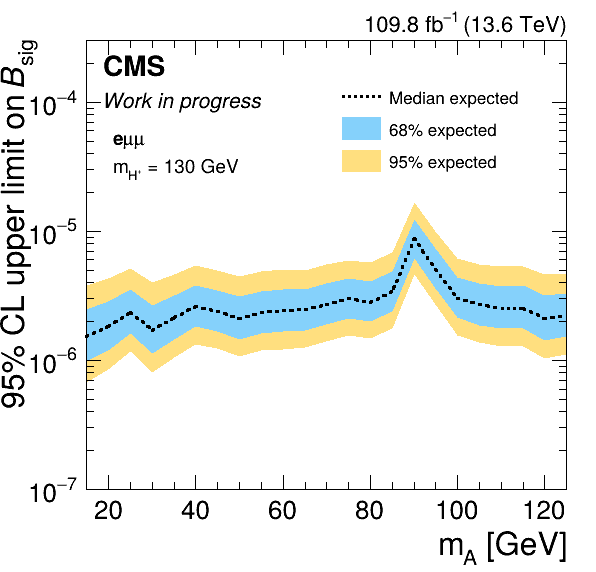
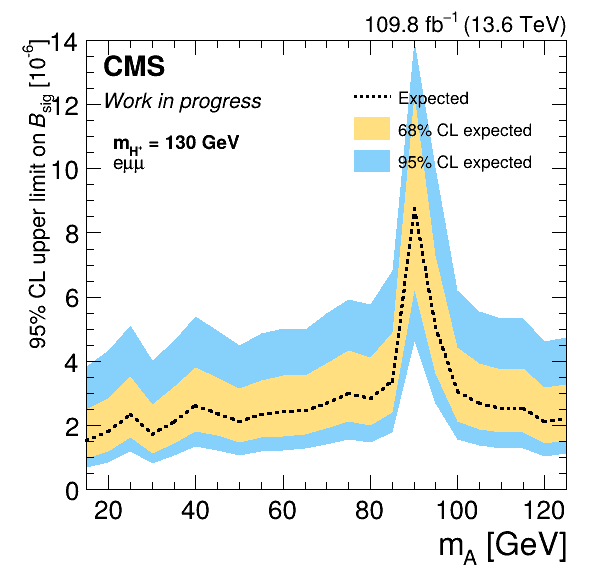
Limit plots in the B2G-25-013 paper style (linear 1e-6, 68% yellow / 95% blue, paper legend, channel label, method-switch lines)
Claude-Session: https://claude.ai/code/session_019Dj4k2CsjooXqEsVcZpA2j

Changed region(s): [[0.0, 0.0594, 0.9664, 0.8322], [0.1812, 0.2378, 0.4228, 0.3269], [0.0604, 0.8322, 0.151, 0.8916]]

diff --git a/SignalRegion/python/plotLimits.py b/SignalRegion/python/plotLimits.py
@@ -32,10 +32,11 @@ LIM = common.SRS / "results" / "json" / "BR" / common.ERA
 PREV_ALL = common.PREV / "results" / "json" / "BR" / "All"
 PNET_WINDOW = (82.5, 97.5)
 QUANT = ["exp-2", "exp-1", "exp0", "exp+1", "exp+2"]
-Y_TITLE = "95% CL upper limit on #it{B}_{sig}"
+Y_TITLE = "95% CL upper limit on #it{B}_{sig} [10^{-6}]"
+SCALE = 1e6  # plotted in units of 1e-6, linear (as B2G-25-013 Fig. limits)
 TOP_TEXT = ["m_{H^{+}} = 130 GeV"]
 # shared layout: CMS label top left, caption block under it, legend top right, notes at the bottom
-LAYOUT = {"xTitle": MA_TITLE, "yTitle": Y_TITLE, "xRange": (15, 125), "logy": True, "yRange": (1e-7, 3e-4),
+LAYOUT = {"xTitle": MA_TITLE, "yTitle": Y_TITLE, "xRange": (15, 125), "logy": False, "yRange": (0., 14.), "yTitleSize": 0.042,
           "captionPos": (0.19, 0.765), "captionSize": 0.036, "legend_text": 0.033, "textSize": 0.027}
 
 
@@ -88,20 +89,20 @@ def at_ma(curve, ma):
     raise KeyError(f"B2G-25-013 curve has no {want} point at mA = {ma}")
 
 
-def brazil_items(lim, median_label="Median expected"):
+def brazil_items(lim, median_label="Expected"):
     mas = sorted(lim)
     n = len(mas)
     g95, g68, gmed = ROOT.TGraphAsymmErrors(n), ROOT.TGraphAsymmErrors(n), ROOT.TGraph(n)
     for i, m in enumerate(mas):
         q = lim[m]
         for g in (g95, g68):
-            g.SetPoint(i, m, q["exp0"])
-        g95.SetPointError(i, 0, 0, q["exp0"] - q["exp-2"], q["exp+2"] - q["exp0"])
-        g68.SetPointError(i, 0, 0, q["exp0"] - q["exp-1"], q["exp+1"] - q["exp0"])
-        gmed.SetPoint(i, m, q["exp0"])
+            g.SetPoint(i, m, SCALE * q["exp0"])
+        g95.SetPointError(i, 0, 0, SCALE * (q["exp0"] - q["exp-2"]), SCALE * (q["exp+2"] - q["exp0"]))
+        g68.SetPointError(i, 0, 0, SCALE * (q["exp0"] - q["exp-1"]), SCALE * (q["exp+1"] - q["exp0"]))
+        gmed.SetPoint(i, m, SCALE * q["exp0"])
     return [
-        {"obj": g95, "kind": "band", "color": plotter.LIMIT_95, "label": "95% expected"},
-        {"obj": g68, "kind": "band", "color": plotter.LIMIT_68, "label": "68% expected"},
+        {"obj": g95, "kind": "band", "color": plotter.LIMIT_95, "label": "95% CL expected"},
+        {"obj": g68, "kind": "band", "color": plotter.LIMIT_68, "label": "68% CL expected"},
         {"obj": gmed, "kind": "line", "color": "#000000", "style": ROOT.kDashed, "width": 3,
          "label": median_label},
     ]
@@ -117,7 +118,7 @@ def main():
     # (a) Brazil plots per channel
     for ch, lim in lims.items():
         items = brazil_items(lim)
-        cfg = dict(LAYOUT, caption=[CH_LABEL[ch]] + TOP_TEXT, legend=(0.56, 0.69, 0.93, 0.86),
+        cfg = dict(LAYOUT, caption=TOP_TEXT + [CH_LABEL[ch]], legend=(0.58, 0.69, 0.93, 0.86),
                    legend_order=[2, 1, 0])
         c = plotter.GraphCanvas(items, cfg, style=a.style).draw()
         common.save(c, a.style, "limits", f"brazil_{ch}")
@@ -126,12 +127,13 @@ def main():
     curve = published_curve()
     gprev = ROOT.TGraph(len(curve))
     for i, (m, v, _) in enumerate(curve):
-        gprev.SetPoint(i, m, v)
+        gprev.SetPoint(i, m, SCALE * v)
     items = brazil_items(lims["Combined"], "Expected (2024)")
     items.append({"obj": gprev, "kind": "line", "color": plotter.PALETTE_LONG[2], "width": 3,
                   "label": "B2G-25-013 expected"})
-    cfg = dict(LAYOUT, caption=TOP_TEXT, legend=(0.56, 0.65, 0.93, 0.86),
-               legend_order=[2, 1, 0, 3])
+    cfg = dict(LAYOUT, caption=TOP_TEXT + [CH_LABEL["Combined"]], legend=(0.58, 0.65, 0.93, 0.86),
+               legend_order=[2, 1, 0, 3],
+               vlines=list(PNET_WINDOW), vlineColor="#000000", vlineStyle=ROOT.kDashed, vlineWidth=1)
     c = plotter.GraphCanvas(items, cfg, style=a.style).draw()
     common.save(c, a.style, "limits", "compare_B2G25013")
 
@@ -141,7 +143,7 @@ def main():
                          ("SR3Mu", plotter.PALETTE_LONG[1], ROOT.kDashed)):
         g = ROOT.TGraph(len(lims[ch]))
         for i, m in enumerate(sorted(lims[ch])):
-            g.SetPoint(i, m, lims[ch][m]["exp0"])
+            g.SetPoint(i, m, SCALE * lims[ch][m]["exp0"])
         items.append({"obj": g, "kind": "line", "color": col, "style": sty, "width": 3,
                       "label": f"{CH_LABEL[ch]}"})
     cfg = dict(LAYOUT, caption=TOP_TEXT,

diff --git a/Common/Tools/plotter.py b/Common/Tools/plotter.py
@@ -519,8 +519,8 @@ class EffCanvas:
         save(self.canv, path)
 
 
-LIMIT_68 = "#85D1FB"   # CMS expected-limit bands, CMS-logo set (cmsstyle kLimit68cms / kLimit95cms; user 2026-11-28)
-LIMIT_95 = "#FFDF7F"
+LIMIT_68 = "#FFDF7F"   # CMS expected-limit bands, CMS-logo colours as in B2G-25-013 (68% yellow, 95% light blue; user 2026-11-28)
+LIMIT_95 = "#85D1FB"
 
 
 def _graph_points(g):
@@ -550,7 +550,7 @@ class GraphCanvas:
          rTitle, rRange (lower pad), legend (x1, y1, x2, y2), legend_text, legend_columns,
          legend_header, legend_order, caption (lines), captionPos, captionSize, text (lines),
          textPos, textSize, hlines / rlines (y of dotted horizontal lines in the upper / lower pad),
-         vlines (x of dotted vertical lines in both pads), show_lumi (default True)
+         vlines (x of vertical lines in both pads; vlineColor, vlineStyle, vlineWidth, default grey dotted), show_lumi (default True)
     has_data: label choice (True: "Work in progress", False: "Simulation Work in progress").
     """
 
@@ -627,6 +627,8 @@ class GraphCanvas:
             self.pad.SetLogy()
         else:
             CMS.GetCmsCanvasHist(self.pad).GetYaxis().SetMaxDigits(3)
+        if cfg.get("yTitleSize"):  # long y titles (e.g. with units) that would be clipped at the top
+            CMS.GetCmsCanvasHist(self.pad).GetYaxis().SetTitleSize(cfg["yTitleSize"])
         self._keep = []
         for y in cfg.get("hlines", []):
             ln = ROOT.TLine(xmin, y, xmax, y)
@@ -634,7 +636,8 @@ class GraphCanvas:
             self._keep.append(ln)
         for x in cfg.get("vlines", []):
             ln = ROOT.TLine(x, ymin, x, ymax)
-            CMS.cmsDrawLine(ln, lcolor=ROOT.kGray + 2, lstyle=ROOT.kDotted, lwidth=2)
+            CMS.cmsDrawLine(ln, lcolor=color(cfg["vlineColor"]) if cfg.get("vlineColor") else ROOT.kGray + 2,
+                            lstyle=cfg.get("vlineStyle", ROOT.kDotted), lwidth=cfg.get("vlineWidth", 2))
             self._keep.append(ln)
         opts = [self._draw_item(it) for it in self.top]
         x1, y1, x2, y2 = cfg.get("legend", (0.50, 0.70, 0.93, 0.89))
